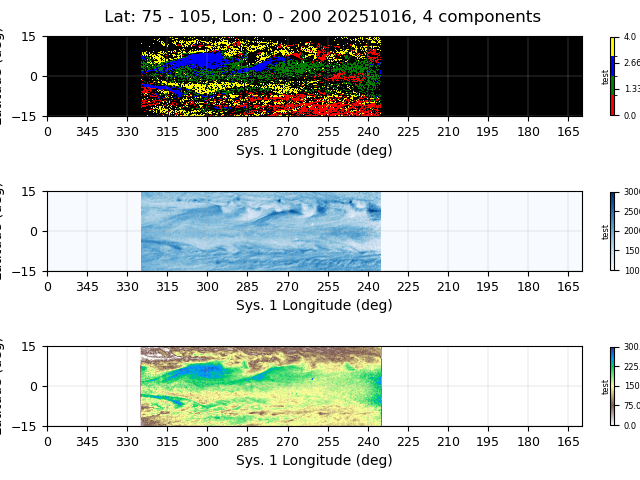
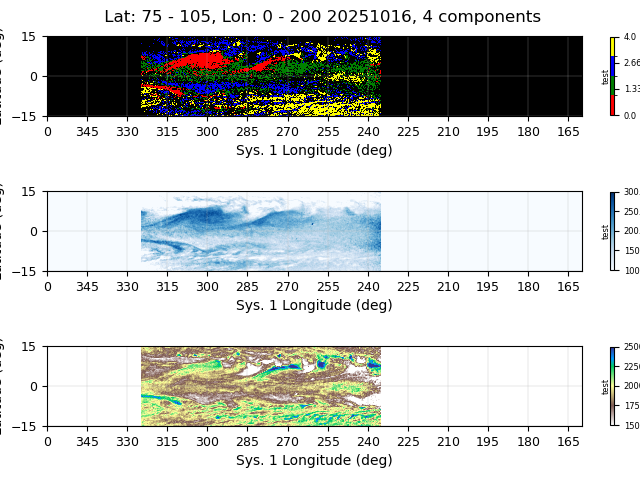
fix: cluster plots for sys 1 and map comparison for nh3/pcld

diff --git a/scripts/processes.py b/scripts/processes.py
@@ -91,6 +91,7 @@ def create_map_comparison(date, keywords, param_ranges,
                            latRng = [85, 95], lngRng = [230, 330], 
                             n_comp = 4, cov_type = "full",  cm_num = 1):
     [input_arr, subset_shape] = pre.get_input_array(keywords, param_ranges, latRng, lngRng, cm_num)
+    print(input_arr.shape)
     print(lngRng)
     pred = CL.create_clusters(input_arr[:, 0:len(keywords)], cov_type, n_comp, config["soft_clustering"])
     #print("scoring...")
@@ -119,12 +120,11 @@ def create_map_comparison(date, keywords, param_ranges,
 #output_cluster_map_and_plot("20251016", ["NH3", "PCld", "AOI", "CI"], [[100, 300], [1500,  2500], [0, 1], [0, 1]], [75, 105], [0, 360], 4)
 
 #create_map_comparison("20251016", ["NH3", "PCld"], [[100, 300], [1500,  2500]], [75, 105], [0, 200])
-#output_cluster_map_and_plot("20251016", ["NH3", "PCld"], [[100, 300], [1500,  2500]], [75, 105], [0, 360], 4)
+create_map_comparison("20251016", ["PCld", "NH3"], [[1000,  3000], [0, 300]], [75, 105], [0, 200])
 
-create_map_comparison("20251016", ["AOI", "CI"], [[0, 1], [0, 1]], [75, 105], [0, 200])
-#output_cluster_map_and_plot("20251016", ["AOI", "CI"], [[0, 1], [0, 1]], [75, 105], [0, 360], 4)
+#create_map_comparison("20251016", ["AOI", "CI"], [[0, 1], [0, 1]], [75, 105], [0, 200])
+#output_cluster_map_and_plot("20251016", ["AOI", "CI"], [[0, 1], [0, 1]], [75, 105], [0, 200], 4)
 
 
-#output_cluster_map_and_plot("20251214", ["NH3", "PCld"], [[0, 300], [1000, 3000]], 5)
 #output_cluster_plot("20251214", ["NH3", "PCld"], [[0, 300], [1000, 3000]], 5)
     
